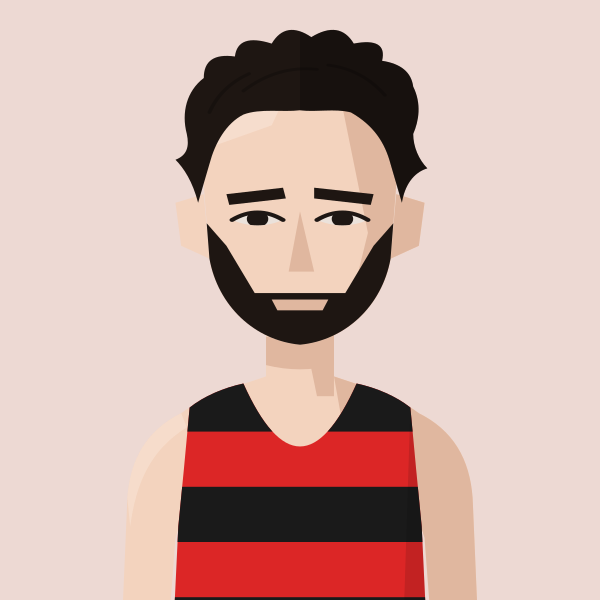
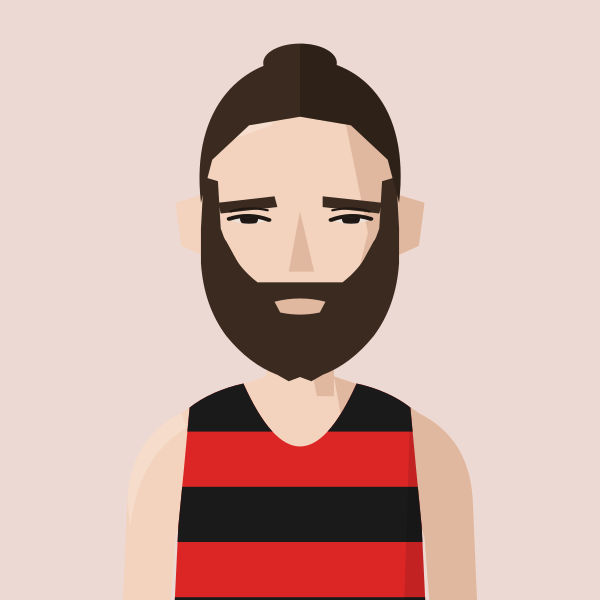
Redraw Angus Butler (man bun, full beard, small wide-set eyes) and add his dog Max to his profile
Claude-Session: https://claude.ai/code/session_01MgmDWhFqnSSnP4iBLKXUZC

Changed region(s): [[0.3, 0.03, 0.72, 0.63]]

diff --git a/files/index.html b/files/index.html
@@ -686,9 +686,9 @@ return m;})();
 const portraitFile=(name,club)=>{const k=normalizeNameForCompare(name||'').replace(/\s*\(([^)]*)\)$/,(m,c)=>CLUBS[c.toUpperCase()]?'':m);const a=PORTRAITS[k];if(a&&a.club===club)return a.file;const b=PORTRAITS[k+'@'+club];return b?b.file:null;};
 // Athlete header figure: superstar portrait if we have one, else a grey runner in the club vest, else the plain vest icon
 // Changes whenever any portrait changes (set by tools/build_og.py), so browsers fetch fresh images instead of old cached ones
-const PORTRAIT_V='62f463a3';const PORTRAIT_WOMEN='abbey-brooke,abbie-bulbulian,adele-prince,aimee-hargreaves,aisling-ahern,alex-brown,alex-gandee,alex-marginean,alex-miller,alexa-parker,alexandra-barbour,alice-braham,alice-bridger-morales,alice-crane,alice-martin,alice-reed,alice-smith,alison-purnell,alison-thomson,amy-clements,andrea-barber,anika-schwarze-chintapatla,anna-garnier,anna-garnier-hw,anna-sharp,annabel-hobday,annabelle-hadlow,anne-hegvold,annmarie-seymour,ava-mcandie,becky-briggs,bethan-goddard,bethanie-murray,bethany-brown,betsy-griffiths,billie-mcclosky,camilla-barden,caoimhe-nic-fhogartaigh,carolyne-baxter,catherine-bryson,catherine-eastham,catherine-kandie,cathy-ansell,charlotte-griffiths,chloe-beckett,chloe-tighe,chrissie-wellington,claire-grima,clara-pettit,clare-elms,clare-pauzers,dillan-quinn,dorchie-cockerell,eilidh-hide,elinor-skinner,eliza-grant,elizabeth-apsley,elizabeth-stavreski,ella-fennelly,ella-king-powrie,ella-may-hards,ella-newton,ellie-brown,ellie-freeden,eloise-bull,emilie-arnoux,emily-barrett,emily-bradley,emily-lowery,emily-robbins,emma-gordon,emma-howsham,emma-lord,emma-rowland,estle-viljoen,evie-warren,felicity-cole,felicity-harrison,felicity-hayward,fi-maddocks,fiona-de-mauny,florence-wiggins,gabby-collison,gabriel-reynolds,gemma-newport,genevieve-blanch,georgia-curry,georgie-bruinvels,georgie-fenn,georgie-furze,georgie-grgec,gina-galbraith,grace-leyland,grace-richardson,hannah-edwards,hannah-english,heather-statham,heather-statham-cc,helena-corbin,helena-keenan,holly-nixon,holly-pan,imogen-mackie,imogen-wolsey,iona-cousland,isabel-bradley,isabel-brinsden,isabelle-pickett,isobel-hodder,jennifer-nandi,jennifer-smith,jess-reed,jess-saunders,jess-winfield,jessica-davies,jessica-lowe,jodie-favell,josephine-rhodes,julia-bleasdale,julia-wedmore,juliet-hodder,jurgita-levertaviciute,justine-lynch,karen-fenner,karen-xiang,karina-box,kate-axford,kate-williams,kathy-sharpe,katie-ellen-french,katie-good,katie-snowden,katy-hedgethorne,kitty-shepherd-cross,kristina-popadich,lara-bromilow,lara-mangan,laura-goodson,laura-miles,lauren-major,lea-adamson,lily-newton,lisa-bailey,lisa-thomas,lisa-thomas-hw,lizzie-goldie-scot,louise-cooper,lucy-jones,lucy-macalister,lucy-peters,lydia-blackmore,lydia-gallyer-barnett,maddie-mastrolonardo,maddy-whitman,maeve-kenny,margaret-coogan,martina-conner,mary-james,mary-setyabule,matilde-lomba,megan-gildea,mhairi-hall,mimi-corden-lloyd,molly-oconnor,molly-smith,monika-gajek,naomi-lenane,natalie-beadle,natalie-seymour,natasha-lodge,niamh-thompson,nicky-hayes,nicola-cartlidge,nicola-douglas,nikki-sturzaker,olivia-papaioannou,olivia-stillman,orna-mcginley,pamela-mchutchon,patricia-walker,patrizia-gnoato,penny-oliver,rachel-brown,rebecca-barrow,rebekah-edgar,ruby-carter,ruby-whyte-wilding,ruby-woolfe,sally-urquhart,sam-whiting,samantha-munday,sarah-astin,sarah-dewhirst,sarah-grover,sarah-hanley,sarah-holt,sarah-murphy,sarah-palmer,sarah-palmer-ran,sarah-riceman,sarah-young,saron-haileselase,serena-carter,sophie-cowper,sophie-harris,sophie-hicks,sophie-tooley,stacey-ward,steph-hewitt,steph-mccall,steph-mccall-cc,steph-mccall-slh,steph-mitchell,suzanne-swaine,suze-spalding,suzie-harvey,suzy-whatmough,teresa-murphy,tilly-heaton,tilly-heaton-bel,vic-cartwright,vicky-clarke,victoria-barthelmess,victoria-buck,vikki-filsell,zoe-macdonald,zuzana-nemeckova';const PORTRAIT_MEN='aaron-wilson,abdulla-elsadig,adam-leane,adrian-major,adrien-royer,alan-black,alan-mead,alex-brecker,alex-bruce-littlewood,alex-gutteridge,alex-harris,alex-howard,alex-janiaud,alex-lee,alex-lennon,alex-mills,alex-milne,alex-morales,alex-robinson,alex-yee,alexander-marks,amittai-ben-israel,andrew-cumine,andrew-green,andrew-penney,andrew-perfect,andrew-simms,andrew-warburton,andrius-jaksevicius,andy-coley-maud,andy-coley-maud-cc,andy-fyfe,andy-north,andy-paton,andy-weir,angus-butler,angus-lamb,anisse-ismaili,arlo-ludewick,arne-dumez,arthur-peel,ashley-goncalves,barnaby-day,barry-collins,barry-sawyer,ben-clarke,ben-harding,ben-hurley,ben-ireland,ben-millar,ben-paviour,ben-pearce,ben-racle,ben-revill,ben-reynolds,ben-scott,ben-toomer,benedict-whitby,benjamin-hilson,bernie-ford,bill-kerr,bill-weller,bill-weller-wal,bob-harrison,bob-holt,bob-lunnon,bob-rayman,bob-smith,bradley-courtney-pinn,brandon-dewar,brian-gorman,brian-wilder,caleb-hathaway,callum-stewart,cameron-dockerill,cameron-reilly,carl-delaney,charles-herrington,charlie-dabbs,charlie-dickinson,charlie-eastaugh,charlie-manning,charlie-pickett,charlie-rogers,charlie-sandison,charlie-walker,charlie-wyllie,che-compton,chris-busaileh,chris-busaileh-hhh,chris-greenwood,chris-keavey,chris-moss,chris-steer,chris-threadgold,chris-warren,christian-lee,christopher-parker,clive-gilby,clive-shippen,colin-high,colin-pearson,conall-mcnally,conall-whelan,craig-ruddy,dame-dibaba,dan-cliffe,dan-pettitt,daniel-shaw,daniel-wolff,dave-beard,dave-beaver,dave-glassborow,dave-holt,dave-taylor,david-anderson,david-bowers,david-grima,david-north,david-ogden,david-symons,david-walsh,david-williams,deron-fagan,dick-piotrowski,dimos-evangelidis,dominic-kiralyfi,don-anderson,don-faircloth,don-maclean,doug-maughan,duncan-rimmer,dylan-evans,dylan-mitchard,ed-brewer,ed-catmur,ed-gibson,ed-mallett,eddie-herridge,eddie-jodrell,eddie-rolls,edward-chuck,eoin-brady,eoin-molloy,ethan-mccolgan,falilou-kebe,findlay-dyer,finn-johnson,fintan-pearce,frank-tickner,frank-ward,fred-paget,fred-slemeck,freddie-hessian,garret-lee,gary-ribbons,gary-ribbons-ee,gary-staines,gavin-eccles,geoff-biscoe,geoff-jerwood,geoff-north,george-cotton,george-gathercole,george-jackson,george-loxton,george-mallett,george-ogden,gerry-adams,gerry-north,glen-keegan,gordon-pearce,graham-macky,harrison-hayman,harry-guttridge,hector-revill,henry-hart,henry-silverstein,hugo-hewitt,ian-acreman,ian-crowe-wright,ian-ellwood,ian-harkness,indy-barnes,isaac-lutaya,isaac-parker,jack-brotchie,jack-dickson,jack-dormer,jack-hampshire,jack-harrison,jack-hobden,jack-kavanagh,jack-millar,jack-ramm,jack-woods,jacob-brockmann,jake-simmonds,james-bartram,james-blackwood,james-bowler,james-estall,james-ewing,james-fox,james-hancock,james-harvey,james-hoad,james-kelly,james-mcmullan,james-murray,james-nutt,james-preston,james-roberts,james-stockings,james-ward,james-wootton,jamie-crowe,jamie-parkinson,jared-martin,jean-paul-wright,jeff-cunningham,jeremy-dempsey,jermaine-mays,jerry-watson,jim-allchin,jim-rimmer,joe-english,joe-hartley,john-baker,john-bicourt,john-bromley,john-davies,john-dear,john-foss,john-foxall,john-gilbert,john-gladwin,john-hutchins,john-kendall,john-kimaiyo,john-lee,john-lethbridge,john-mather,john-moore,john-roberts,john-sanderson,john-stow,john-sullivan,john-thresher,jon-hobbs,jon-pepper,jon-pepper-slh,jon-phillips,jon-solly,jonathan-cocker,jonathan-collier,jonathan-cornish,jonathan-ratcliffe,jonathan-tipper,jonathon-blackledge,jonny-neville,jonny-scott,jordan-weaver,josh-mitchell,josh-snow,josh-trigwell,jules-gevers,junior-galley,justin-chaston,justin-reid,kassa-tadesse,keith-newton,kevin-nash,kevin-quinn,kevin-sturman,kieran-barnes,kieran-white,knut-hegvold,knut-hegvold-bel,larry-ryan,lawrence-avery,lee-lintern,lewis-lloyd,liam-burthem,lionel-mann,lloyd-kempson,luke-caldwell,mack-downie,malachi-byansi,marcello-bizio,marcelo-fortes,marco-mazzotta,mark-anderson,mark-miles,mark-sinclair,mark-tennyson,mark-waller,martin-dent,martin-lake,martin-lewington,martin-shore,mathew-speed,matt-chaston,matt-jones,matt-wood,matthew-edgar,matthew-houchell,matthew-thomas,matthew-varley,max-bloor,max-heyden,max-milarvie,max-nicholls,michael-baker,michael-mccarthy,mick-woods,mike-beevor,mike-boyle,mike-cummings,mike-farmery,mike-fuller,mike-hayes,mike-kortenray,mike-nouch,mohammed-ismail,monty-hudson,morgan-roberts,nathan-visick,neil-chisholm,neil-phillips,neil-speaight,neil-wilson,nic-lukies,nick-acfield,nick-altmann,nick-bester,nick-bester-hhh,nick-buckle,nick-bundle,nick-goolab,nick-lightfoot,nick-morris,nick-torry,noah-fernandez,norman-stairs,oli-carrington,oliver-carrington,oliver-fox,oliver-reynolds,oliver-young,ollie-foote,ollie-garrod,olly-buck,owen-hind,paddy-roddy,pancho-panchev,paskar-owor,pat-newell,patrick-mcdougall,paul-calver,paul-cheetham,paul-freary,paul-magner,paul-pollock,pete-carton,pete-gardner,peter-clarke,peter-giles,peter-giles-thh,peter-lighting,phil-carstairs,phil-sanders,phil-sesemann,phil-swinburn,phil-wicks,phil-woodford-smith,raj-paranandi,ralph-street,ranjit-bhatia,ray-foley,reece-edwards,rhys-boorman,rian-mccawley,richard-ashe,richard-giles,richard-henderson,richard-langley,richard-mcdowell,richard-ollington,richard-partridge,richard-sun,richard-ward,rob-armstrong,rob-kelly,rob-tuer,robert-elphick,robert-laing,robert-norville,robert-peacock,robert-sesemann,robin-boon,robin-hudson,roger-alsop,roger-alsop-bel,ron-clark,ron-linstead,ronan-tanguy,rory-mcmahon,rory-orsborn,ross-christie,rowan-board,rowan-crichton,russell-dessaix-chin,ryan-hickey,ryan-mccallister,sam-bramwell,sam-charlton,sam-gebreselassie,sam-peters,sam-sommerville,sam-tyas,samuel-dames,samuel-wilcock,sean-cordon,sebastian-anthony,simon-baines,simon-coombes,simon-coppard,simon-holmes,simon-rayner,simon-rayner-hw,simon-wade,simon-wade-hhh,simon-waterhouse,simon-williams,simon-wurr,sonny-nicoll,spencer-barden,stephen-mcleod,stephen-sharp,steve-gardner,steve-jones,steve-smythe,steve-smythe-hhh,stuart-beaney,stuart-major,stuart-major-thh,stuart-mccallum,stuart-paton,terry-booth,thomas-dugre,thomas-gandee,thomas-gardner,thomas-renshaw,tim-alexander,tim-eglen,tim-lawrence,tim-watson,toby-cooke,toby-fletcher,tom-austin,tom-cheetham,tom-conlon,tom-davies,tom-gifford,tom-jervis,tom-lole,tom-south,tom-thornley,tommy-taylor,tony-binda,tony-fairclough,tony-harran,trevor-hart,valdis-pauzers,valentin-rigori,vic-maughan,will-cockerell,will-lewis,will-marshall,will-scott,will-stockley,william-gardner,yacin-yusuf,zach-nolan';
+const PORTRAIT_V='c5487154';const PORTRAIT_WOMEN='abbey-brooke,abbie-bulbulian,adele-prince,aimee-hargreaves,aisling-ahern,alex-brown,alex-gandee,alex-marginean,alex-miller,alexa-parker,alexandra-barbour,alice-braham,alice-bridger-morales,alice-crane,alice-martin,alice-reed,alice-smith,alison-purnell,alison-thomson,amy-clements,andrea-barber,anika-schwarze-chintapatla,anna-garnier,anna-garnier-hw,anna-sharp,annabel-hobday,annabelle-hadlow,anne-hegvold,annmarie-seymour,ava-mcandie,becky-briggs,bethan-goddard,bethanie-murray,bethany-brown,betsy-griffiths,billie-mcclosky,camilla-barden,caoimhe-nic-fhogartaigh,carolyne-baxter,catherine-bryson,catherine-eastham,catherine-kandie,cathy-ansell,charlotte-griffiths,chloe-beckett,chloe-tighe,chrissie-wellington,claire-grima,clara-pettit,clare-elms,clare-pauzers,dillan-quinn,dorchie-cockerell,eilidh-hide,elinor-skinner,eliza-grant,elizabeth-apsley,elizabeth-stavreski,ella-fennelly,ella-king-powrie,ella-may-hards,ella-newton,ellie-brown,ellie-freeden,eloise-bull,emilie-arnoux,emily-barrett,emily-bradley,emily-lowery,emily-robbins,emma-gordon,emma-howsham,emma-lord,emma-rowland,estle-viljoen,evie-warren,felicity-cole,felicity-harrison,felicity-hayward,fi-maddocks,fiona-de-mauny,florence-wiggins,gabby-collison,gabriel-reynolds,gemma-newport,genevieve-blanch,georgia-curry,georgie-bruinvels,georgie-fenn,georgie-furze,georgie-grgec,gina-galbraith,grace-leyland,grace-richardson,hannah-edwards,hannah-english,heather-statham,heather-statham-cc,helena-corbin,helena-keenan,holly-nixon,holly-pan,imogen-mackie,imogen-wolsey,iona-cousland,isabel-bradley,isabel-brinsden,isabelle-pickett,isobel-hodder,jennifer-nandi,jennifer-smith,jess-reed,jess-saunders,jess-winfield,jessica-davies,jessica-lowe,jodie-favell,josephine-rhodes,julia-bleasdale,julia-wedmore,juliet-hodder,jurgita-levertaviciute,justine-lynch,karen-fenner,karen-xiang,karina-box,kate-axford,kate-williams,kathy-sharpe,katie-ellen-french,katie-good,katie-snowden,katy-hedgethorne,kitty-shepherd-cross,kristina-popadich,lara-bromilow,lara-mangan,laura-goodson,laura-miles,lauren-major,lea-adamson,lily-newton,lisa-bailey,lisa-thomas,lisa-thomas-hw,lizzie-goldie-scot,louise-cooper,lucy-jones,lucy-macalister,lucy-peters,lydia-blackmore,lydia-gallyer-barnett,maddie-mastrolonardo,maddy-whitman,maeve-kenny,margaret-coogan,martina-conner,mary-james,mary-setyabule,matilde-lomba,megan-gildea,mhairi-hall,mimi-corden-lloyd,molly-oconnor,molly-smith,monika-gajek,naomi-lenane,natalie-beadle,natalie-seymour,natasha-lodge,niamh-thompson,nicky-hayes,nicola-cartlidge,nicola-douglas,nikki-sturzaker,olivia-papaioannou,olivia-stillman,orna-mcginley,pamela-mchutchon,patricia-walker,patrizia-gnoato,penny-oliver,rachel-brown,rebecca-barrow,rebekah-edgar,ruby-carter,ruby-whyte-wilding,ruby-woolfe,sally-urquhart,sam-whiting,samantha-munday,sarah-astin,sarah-dewhirst,sarah-grover,sarah-hanley,sarah-holt,sarah-murphy,sarah-palmer,sarah-palmer-ran,sarah-riceman,sarah-young,saron-haileselase,serena-carter,sophie-cowper,sophie-harris,sophie-hicks,sophie-tooley,stacey-ward,steph-hewitt,steph-mccall,steph-mccall-cc,steph-mccall-slh,steph-mitchell,suzanne-swaine,suze-spalding,suzie-harvey,suzy-whatmough,teresa-murphy,tilly-heaton,tilly-heaton-bel,vic-cartwright,vicky-clarke,victoria-barthelmess,victoria-buck,vikki-filsell,zoe-macdonald,zuzana-nemeckova';const PORTRAIT_MEN='aaron-wilson,abdulla-elsadig,adam-leane,adrian-major,adrien-royer,alan-black,alan-mead,alex-brecker,alex-bruce-littlewood,alex-gutteridge,alex-harris,alex-howard,alex-janiaud,alex-lee,alex-lennon,alex-mills,alex-milne,alex-morales,alex-robinson,alex-yee,alexander-marks,amittai-ben-israel,andrew-cumine,andrew-green,andrew-penney,andrew-perfect,andrew-simms,andrew-warburton,andrius-jaksevicius,andy-coley-maud,andy-coley-maud-cc,andy-fyfe,andy-north,andy-paton,andy-weir,angus-butler,angus-lamb,anisse-ismaili,arlo-ludewick,arne-dumez,arthur-peel,ashley-goncalves,barnaby-day,barry-collins,barry-sawyer,ben-clarke,ben-harding,ben-hurley,ben-ireland,ben-millar,ben-paviour,ben-pearce,ben-racle,ben-revill,ben-reynolds,ben-scott,ben-toomer,benedict-whitby,benjamin-hilson,bernie-ford,bill-kerr,bill-weller,bill-weller-wal,bob-harrison,bob-holt,bob-lunnon,bob-rayman,bob-smith,bradley-courtney-pinn,brandon-dewar,brian-gorman,brian-wilder,caleb-hathaway,callum-stewart,cameron-dockerill,cameron-reilly,carl-delaney,charles-herrington,charlie-dabbs,charlie-dickinson,charlie-eastaugh,charlie-manning,charlie-pickett,charlie-rogers,charlie-sandison,charlie-walker,charlie-wyllie,che-compton,chris-busaileh,chris-busaileh-hhh,chris-greenwood,chris-keavey,chris-moss,chris-steer,chris-threadgold,chris-warren,christian-lee,christopher-parker,clive-gilby,clive-shippen,colin-high,colin-pearson,conall-mcnally,conall-whelan,craig-ruddy,dame-dibaba,dan-cliffe,dan-pettitt,daniel-shaw,daniel-wolff,dave-beard,dave-beaver,dave-glassborow,dave-holt,dave-taylor,david-anderson,david-bowers,david-grima,david-north,david-ogden,david-symons,david-walsh,david-williams,deron-fagan,dick-piotrowski,dimos-evangelidis,dominic-kiralyfi,don-anderson,don-faircloth,don-maclean,doug-maughan,duncan-rimmer,dylan-evans,dylan-mitchard,ed-brewer,ed-catmur,ed-gibson,ed-mallett,eddie-herridge,eddie-jodrell,eddie-rolls,edward-chuck,eoin-brady,eoin-molloy,ethan-mccolgan,falilou-kebe,findlay-dyer,finn-johnson,fintan-pearce,frank-tickner,frank-ward,fred-paget,fred-slemeck,freddie-hessian,garret-lee,gary-ribbons,gary-ribbons-ee,gary-staines,gavin-eccles,geoff-biscoe,geoff-jerwood,geoff-north,george-cotton,george-gathercole,george-jackson,george-loxton,george-mallett,george-ogden,gerry-adams,gerry-north,glen-keegan,gordon-pearce,graham-macky,harrison-hayman,harry-guttridge,hector-revill,henry-hart,henry-silverstein,hugo-hewitt,ian-acreman,ian-crowe-wright,ian-ellwood,ian-harkness,indy-barnes,isaac-lutaya,isaac-parker,jack-brotchie,jack-dickson,jack-dormer,jack-hampshire,jack-harrison,jack-hobden,jack-kavanagh,jack-millar,jack-ramm,jack-woods,jacob-brockmann,jake-simmonds,james-bartram,james-blackwood,james-bowler,james-estall,james-ewing,james-fox,james-hancock,james-harvey,james-hoad,james-kelly,james-mcmullan,james-murray,james-nutt,james-preston,james-roberts,james-stockings,james-ward,james-wootton,jamie-crowe,jamie-parkinson,jared-martin,jean-paul-wright,jeff-cunningham,jeremy-dempsey,jermaine-mays,jerry-watson,jim-allchin,jim-rimmer,joe-english,joe-hartley,john-baker,john-bicourt,john-bromley,john-davies,john-dear,john-foss,john-foxall,john-gilbert,john-gladwin,john-hutchins,john-kendall,john-kimaiyo,john-lee,john-lethbridge,john-mather,john-moore,john-roberts,john-sanderson,john-stow,john-sullivan,john-thresher,jon-hobbs,jon-pepper,jon-pepper-slh,jon-phillips,jon-solly,jonathan-cocker,jonathan-collier,jonathan-cornish,jonathan-ratcliffe,jonathan-tipper,jonathon-blackledge,jonny-neville,jonny-scott,jordan-weaver,josh-mitchell,josh-snow,josh-trigwell,jules-gevers,junior-galley,justin-chaston,justin-reid,kassa-tadesse,keith-newton,kevin-nash,kevin-quinn,kevin-sturman,kieran-barnes,kieran-white,knut-hegvold,knut-hegvold-bel,larry-ryan,lawrence-avery,lee-lintern,lewis-lloyd,liam-burthem,lionel-mann,lloyd-kempson,luke-caldwell,mack-downie,malachi-byansi,marcello-bizio,marcelo-fortes,marco-mazzotta,mark-anderson,mark-miles,mark-sinclair,mark-tennyson,mark-waller,martin-dent,martin-lake,martin-lewington,martin-shore,mathew-speed,matt-chaston,matt-jones,matt-wood,matthew-edgar,matthew-houchell,matthew-thomas,matthew-varley,max-bloor,max-heyden,max-milarvie,max-nicholls,michael-baker,michael-mccarthy,mick-woods,mike-beevor,mike-boyle,mike-cummings,mike-farmery,mike-fuller,mike-hayes,mike-kortenray,mike-nouch,mohammed-ismail,monty-hudson,morgan-roberts,nathan-visick,neil-chisholm,neil-phillips,neil-speaight,neil-wilson,nic-lukies,nick-acfield,nick-altmann,nick-bester,nick-bester-hhh,nick-buckle,nick-bundle,nick-goolab,nick-lightfoot,nick-morris,nick-torry,noah-fernandez,norman-stairs,oli-carrington,oliver-carrington,oliver-fox,oliver-reynolds,oliver-young,ollie-foote,ollie-garrod,olly-buck,owen-hind,paddy-roddy,pancho-panchev,paskar-owor,pat-newell,patrick-mcdougall,paul-calver,paul-cheetham,paul-freary,paul-magner,paul-pollock,pete-carton,pete-gardner,peter-clarke,peter-giles,peter-giles-thh,peter-lighting,phil-carstairs,phil-sanders,phil-sesemann,phil-swinburn,phil-wicks,phil-woodford-smith,raj-paranandi,ralph-street,ranjit-bhatia,ray-foley,reece-edwards,rhys-boorman,rian-mccawley,richard-ashe,richard-giles,richard-henderson,richard-langley,richard-mcdowell,richard-ollington,richard-partridge,richard-sun,richard-ward,rob-armstrong,rob-kelly,rob-tuer,robert-elphick,robert-laing,robert-norville,robert-peacock,robert-sesemann,robin-boon,robin-hudson,roger-alsop,roger-alsop-bel,ron-clark,ron-linstead,ronan-tanguy,rory-mcmahon,rory-orsborn,ross-christie,rowan-board,rowan-crichton,russell-dessaix-chin,ryan-hickey,ryan-mccallister,sam-bramwell,sam-charlton,sam-gebreselassie,sam-peters,sam-sommerville,sam-tyas,samuel-dames,samuel-wilcock,sean-cordon,sebastian-anthony,simon-baines,simon-coombes,simon-coppard,simon-holmes,simon-rayner,simon-rayner-hw,simon-wade,simon-wade-hhh,simon-waterhouse,simon-williams,simon-wurr,sonny-nicoll,spencer-barden,stephen-mcleod,stephen-sharp,steve-gardner,steve-jones,steve-smythe,steve-smythe-hhh,stuart-beaney,stuart-major,stuart-major-thh,stuart-mccallum,stuart-paton,terry-booth,thomas-dugre,thomas-gandee,thomas-gardner,thomas-renshaw,tim-alexander,tim-eglen,tim-lawrence,tim-watson,toby-cooke,toby-fletcher,tom-austin,tom-cheetham,tom-conlon,tom-davies,tom-gifford,tom-jervis,tom-lole,tom-south,tom-thornley,tommy-taylor,tony-binda,tony-fairclough,tony-harran,trevor-hart,valdis-pauzers,valentin-rigori,vic-maughan,will-cockerell,will-lewis,will-marshall,will-scott,will-stockley,william-gardner,yacin-yusuf,zach-nolan';
 // Runners whose dog pops up on their own profile page (a -dog.svg version of their portrait)
-const PROFILE_DOGS=new Set(['john-sanderson','penny-oliver','james-hancock']);
+const PROFILE_DOGS=new Set(['john-sanderson','penny-oliver','james-hancock','angus-butler']);
 const AthletePortrait=({name,club,w,fill,onClick,blink})=>{const[failed,setFailed]=useState(false);const file=portraitFile(name,club);const src0=file?`/portraits/athletes/${file}.svg?v=${PORTRAIT_V}`:PORTRAIT_CLUBS.has(club)?`/portraits/clubs/${club.replace(/\//g,'').replace(/&/g,'and')}.svg?v=${PORTRAIT_V}`:null;const blinkSrc=useBlinkSrc(file?(PROFILE_DOGS.has(file)?`/portraits/athletes/${file}-dog.svg?v=${PORTRAIT_V}`:src0):null,!!blink);const src=blinkSrc||src0;if(!src||failed)return<div onClick={onClick} className={onClick?'cursor-pointer':''}><ClubShield club={club} size={w}/></div>;const h=Math.round(w*148/126),ih=Math.round(w*1.4);if(fill)return<div onClick={onClick} className="cursor-pointer" style={{alignSelf:'stretch',minHeight:h,aspectRatio:'126 / 148',flexShrink:0,position:'relative',borderRadius:4,overflow:'hidden'}}><img src={src} alt={file?`Portrait of ${name.replace(/\s*\([^)]*\)$/,'')}`:`Runner in ${CLUBS[club]?.name||club} vest`} style={{position:'absolute',top:0,left:0,display:'block',width:'100%',height:'auto'}} onError={()=>setFailed(true)}/></div>;return<div style={{width:w,height:h,borderRadius:4,overflow:'hidden',flexShrink:0}}><img src={src} alt={file?`Portrait of ${name.replace(/\s*\([^)]*\)$/,'')}`:`Runner in ${CLUBS[club]?.name||club} vest`} width={w} height={ih} style={{display:'block',width:w,height:ih}} onError={()=>setFailed(true)}/></div>;};
 const getClubVestSvg=(club)=>{
   const p="M3 0 L6 0 Q7 4 10 5 Q13 4 14 0 L17 0 L17 20 L3 20 Z";

diff --git a/tools/gen_portraits.py b/tools/gen_portraits.py
@@ -121,6 +121,9 @@ HAIR["longstraight"] = HAIR["longwavy"]
 HAIR_BACK["longstraight"] = '<path d="M60,90 C56,52 80,34 100,34 C120,34 144,52 140,90 L142,188 L58,188 Z"/>'
 HAIR["slicktail"] = '<path d="M66,104 C62,58 81,37 100,37 C120,37 138,58 134,104 L131,86 Q129,70 117,62 Q108,62 101,67 Q94,62 85,62 Q71,70 69,86 Z"/>'
 HAIR_BACK["slicktail"] = '<path d="M122,64 C138,66 146,78 146,90 Q151,98 145,106 Q150,116 141,124 Q138,130 134,128 Q137,120 133,112 Q136,102 131,94 Q130,80 122,72 Z"/>'
+# man bun: hair swept straight back (topknot hairline) into a bun centred at the back of the head
+HAIR["manbun"] = HAIR["topknot"].split("/>")[0] + "/>"
+HAIR_BACK["manbun"] = '<ellipse cx="100" cy="39" rx="13" ry="9"/>'
 HAIR["shaggyrecede"] = '<path d="M60,128 L57,116 L61,108 L56,98 L60,86 L58,74 L66,60 L72,52 L80,47 L86,38 L92,45 L98,34 L104,43 L112,36 L116,46 L124,49 L134,60 L142,74 L140,86 L144,98 L139,108 L143,116 L140,128 L134,124 L133,100 Q131,76 124,64 Q116,57 110,61 Q104,67 100,67 Q96,67 90,61 Q84,57 76,64 Q69,76 67,100 L66,124 Z"/>'
 HAIR_BACK["shaggyrecede"] = '<path d="M60,90 C58,56 80,40 100,40 C120,40 142,56 140,90 L146,104 L141,114 L147,124 L140,134 L144,144 L130,140 L70,140 L56,144 L60,134 L53,124 L59,114 L54,104 Z"/>'
 HAIR["longloose"] = '<path d="M60,140 C52,66 76,36 100,36 C124,36 148,66 140,140 L134,136 L133,100 Q130,80 118,70 Q108,64 97,60 Q86,70 74,78 Q68,90 67,104 L66,136 Z"/>'
@@ -158,6 +161,7 @@ FACIAL = {
     "moustache": '<path d="M86,141 L100,138 L114,141 L113,146 L100,143.5 L87,146 Z"/>',
     "thicktache": '<path d="M100,137 C108,136 115,138 117,143 L119,151 Q116,151 114,147 C110,145 105,144.5 100,145.5 C95,144.5 90,145 86,147 Q84,151 81,151 L83,143 C85,138 92,136 100,137 Z"/>',
     "beard": '<path d="M66,112 L74,124 L84,146 L116,146 L126,124 L134,112 L134,180 L66,180 Z"/>',
+    "bigbeard": '<path d="M64,106 L74,122 L84,146 L116,146 L126,122 L136,106 L136,180 L64,180 Z"/>',
     "bushybeard": '<path d="M64,106 L74,122 L84,146 L116,146 L126,122 L136,106 L136,180 L64,180 Z"/>',
     "stubble": '<path d="M66,112 L74,124 L84,146 L116,146 L126,124 L134,112 L134,180 L66,180 Z" opacity=".32"/>',
 }
@@ -262,6 +266,9 @@ def figure(kit, mode="custom", skin=1, hair="crop", hair_colour="dark brown", fa
                 hg.append(f'<g clip-path="url(#h{tag})" fill="{fc}">{FACIAL[facial]}</g>')
                 if facial == "beard":
                     hg.append(f'<path d="M90,149 L110,149 L108,154 L92,154 Z" fill="{dk}"/>')
+                if facial == "bigbeard":  # big full beard with moustache: sideburns run up into the hair, hugs a thin face, thickest at the chin
+                    hg.append(f'<path d="M66,92 L71,94 L72,116 Q76,132 85,141 L115,141 Q124,132 128,116 L129,94 L134,92 L135,116 L135,132 Q134,152 126,166 Q118,179 108,184 L104,187 L100,185 L96,187 L92,184 Q82,179 74,166 Q66,152 65,132 L65,116 Z" fill="{fc}"/>'
+                              f'<path d="M91,150 Q100,147 109,150 L107,155 Q100,157 93,155 Z" fill="{dk}"/>')
                 if facial == "bushybeard":  # full, bushy beard that spills past the jawline
                     hg.append(f'<path d="M64,118 L60,140 Q66,168 84,180 Q100,188 116,180 Q134,168 140,140 L136,118 L128,128 L118,146 L82,146 L72,128 Z" fill="{fc}"/>'
                               f'<path d="M88,149 L112,149 L109,155 L91,155 Z" fill="{dk}"/>')
@@ -448,6 +455,34 @@ def spaniel(cx=158, cy=214, s=1.2, fur="#1B1B1D", plane="#2A2A2E", sheen="#3C3C4
     e(1,12.5,2.6,3.2,"#E58A95")
     return '<g class="dog">'+''.join(out)+'</g>'
 def with_spaniel(svg, **kw): return svg.replace('</svg>', spaniel(**kw)+'</svg>', 1)
+
+# Angus Butler's dog Max: scruffy black cockapoo with a navy speckled bandana
+def cockapoo(cx=154, cy=203, s=1.4, fur="#1E1C1B", plane="#2C2927", sheen="#3E3A37", band="#2E3F5C", fleck="#E8DCC4"):
+    """Scruffy black cockapoo peeking up from the bottom edge: shaggy curly ears, fringe over the eyes, speckled bandana (flat geometric, house style)."""
+    P=lambda x,y:(cx+x*s,cy+y*s)
+    out=[]
+    def c(x,y,r,col): X,Y=P(x,y); out.append(f'<circle cx="{X:.1f}" cy="{Y:.1f}" r="{r*s:.1f}" fill="{col}"/>')
+    def e(x,y,rx,ry,col,rot=0): X,Y=P(x,y); out.append(f'<ellipse cx="{X:.1f}" cy="{Y:.1f}" rx="{rx*s:.1f}" ry="{ry*s:.1f}" fill="{col}" transform="rotate({rot} {X:.1f} {Y:.1f})"/>')
+    def poly(pts,col): out.append('<path d="M'+' L'.join(f'{P(x,y)[0]:.1f},{P(x,y)[1]:.1f}' for x,y in pts)+f' Z" fill="{col}"/>')
+    X0,Y0=P(-13,8); out.append(f'<rect x="{X0:.1f}" y="{Y0:.1f}" width="{26*s:.1f}" height="{40*s:.1f}" fill="{fur}"/>')
+    # shaggy curly ears hanging either side
+    for side in (-1,1):
+        for (x,y,r) in [(14,-2,5.5),(16,5,6),(15,12,5.5),(17,18,4.8),(13,21,4.2)]: c(side*x,y,r,fur)
+        c(side*15,6,2.6,plane); c(side*16,15,2.2,plane)
+    # shaggy head
+    for (x,y,r) in [(0,0,12.5),(-8,-7,7),(0,-11,7.5),(8,-7,7),(-11,1,5.5),(11,1,5.5)]: c(x,y,r,fur)
+    poly([(-13,-6),(-10,-15),(-6,-10),(-3,-18),(1,-12),(5,-17),(7,-10),(11,-14),(13,-5)],fur)
+    c(-4,-12,2.6,sheen); c(5,-10,2.2,sheen)
+    # muzzle, with fringe falling over the eyes
+    e(0,7,8.5,6.5,plane)
+    for x in (-5.5,5.5): c(x,0,1.7,"#5A3A22"); c(x,0,0.9,"#0C0A09")
+    poly([(-11,-5),(-7,-1),(-4,-5),(0,-1),(4,-5),(7,-1),(11,-5),(9,-9),(-9,-9)],fur)
+    e(0,4.5,2.9,2.1,"#0A0909")
+    # speckled navy bandana tied at the neck
+    poly([(-15,13),(15,13),(13,18),(0,30),(-13,18)],band)
+    for (x,y,r) in [(-9,16,.9),(-4,19,.7),(2,16,.8),(7,19,.9),(10,15,.6),(-2,24,.8),(4,25,.6),(-6,15,.5),(0,20,.6)]: c(x,y,r,fleck)
+    return '<g class="dog">'+''.join(out)+'</g>'
+def with_cockapoo(svg, **kw): return svg.replace('</svg>', cockapoo(**kw)+'</svg>', 1)
 
 
 
@@ -1347,6 +1382,7 @@ EYE_SHAPES = {  # name: (left eye, right eye, left lid line, right lid line)
     "wide": ("M76,112 Q85,102 94,112 Q85,119.5 76,112 Z", "M106,112 Q115,102 124,112 Q115,119.5 106,112 Z", "M76,112 Q85,102 94,112", "M106,112 Q115,102 124,112"),
     "narrow": ("M76,112 Q85,108 94,112 Q85,114.5 76,112 Z", "M106,112 Q115,108 124,112 Q115,114.5 106,112 Z", "M76,112 Q85,108 94,112", "M106,112 Q115,108 124,112"),
     "hooded": ("M76,112 Q85,108.5 94,112 Q85,117 76,112 Z", "M106,112 Q115,108.5 124,112 Q115,117 106,112 Z", "M75,111 Q85,107.5 95,112 M76,107.5 Q85,103.5 94,107", "M105,112 Q115,107.5 125,111 M106,107 Q115,103.5 124,107.5"),
+    "smallhooded": ("M78.5,112 Q85,109.5 91.5,112 Q85,115.5 78.5,112 Z", "M108.5,112 Q115,109.5 121.5,112 Q115,115.5 108.5,112 Z", "M78,111.5 Q85,108.5 92,112 M78.5,108 Q85,105.5 91.5,107.5", "M108,112 Q115,108.5 122,111.5 M108.5,107.5 Q115,105.5 121.5,108"),
     "downturned": ("M75,115 Q85,105 94,112 Q85,118 75,115 Z", "M106,112 Q115,105 125,115 Q115,118 106,112 Z", "M75,115 Q85,105 94,112", "M106,112 Q115,105 125,115"),
     "upturned": ("M75,109 Q85,104 94,112 Q85,116 75,109 Z", "M106,112 Q115,104 125,109 Q115,116 106,112 Z", "M75,109 Q85,104 94,112", "M106,112 Q115,104 125,109"),
 }
@@ -1379,7 +1415,6 @@ save("alison-thomson", figure("KEN", skin=1, hair="ponytail", hair_colour="dark 
 save("andrea-barber", figure("KEN", skin=1, hair="longstraight", hair_colour="blonde"))
 save("andrew-perfect", figure("HHH", skin=1, hair="quiff", hair_colour="grey", gaunt=True, jaw="narrow", creases=True))
 save("andrew-simms", figure("HHH", skin=1, hair="croprecede", hair_colour="light brown", facial="stubble", facial_colour="#9A8468", creases=True))
-save("angus-butler", figure("HHH", skin=1, hair="messyvolume", hair_colour="#1E1612", facial="beard", facial_colour="#1E1612"))
 save("annabel-hobday", figure("HHH", skin=1, hair="tightbun", hair_colour="light brown"))
 save("annabelle-hadlow", figure("KEN", skin=1, hair="slick", hair_colour="#8A7A68", creases=True, gaunt=True))
 save("ben-millar", figure("HHH", skin=1, hair="buzzrecede", hair_colour="light brown", jaw="square", creases=True))
@@ -1538,16 +1573,16 @@ def export_site(site_dir="/home/claude/surrey-league/files/portraits/athletes", 
             shutil.copy(src, f"{out}/{slug}.svg")
 # ---- Brow tilt (Oct 2026): lift the inner ends for a warm, open look; follow eye spacing ----
 import re as _re_b
-def brows(svg, lift=0, spacing=0):
-    """lift > 0 raises the inner ends of both brows (warm/upturned); spacing matches eyes() (- = closer)."""
+def brows(svg, lift=0, spacing=0, drop=0):
+    """lift > 0 raises the inner ends of both brows (warm/upturned); spacing matches eyes() (- = closer); drop > 0 lowers both brows (eyes set right under them)."""
     m = _re_b.search(r'<g fill="(#[0-9A-Fa-f]{3,6})"><polygon points="([^"]+)"/><polygon points="([^"]+)"/></g>', svg)
     if not m: return svg
     def pts(s): return [tuple(float(v) for v in p.split(",")) for p in s.split()]
     def fmt(ps): return " ".join(f"{x:g},{y:g}" for x, y in ps)
     L, R = pts(m.group(2)), pts(m.group(3))
     lx = max(x for x, _ in L); rx = min(x for x, _ in R)
-    L = [(x - spacing, y - (lift if x >= lx - 2 else 0)) for x, y in L]
-    R = [(x + spacing, y - (lift if x <= rx + 2 else 0)) for x, y in R]
+    L = [(x - spacing, y + drop - (lift if x >= lx - 2 else 0)) for x, y in L]
+    R = [(x + spacing, y + drop - (lift if x <= rx + 2 else 0)) for x, y in R]
     new = f'<g fill="{m.group(1)}"><polygon points="{fmt(L)}"/><polygon points="{fmt(R)}"/></g>'
     return svg[:m.start()] + new + svg[m.end():]
 
@@ -1580,4 +1615,10 @@ SITE_NAMES["james-hancock-dog"] = "james-hancock-dog"
 save("lionel-mann", eyes(figure("BEL", skin=1, hair="shaggyrecede", hair_colour="dark brown", facial="bushybeard", greying="sides"), "downturned"))
 # Steve Gardner, redrawn Oct 2026: neat mid-brown quiff, light stubble, eyes slightly closer, rosy, dark half-zip
 save("steve-gardner", eyes(figure("BEL", skin=1, hair="quiff", hair_colour="#5E4430", facial="stubble", facial_colour="#7A5E48", rosy=True, jacket=("#2E3238", "#23262B", None)), None, -1))
+# Angus Butler, redrawn Oct 2026: hair swept back into a bun at the back, big full beard and moustache hugging a thin face,
+# small wide-set lightly hooded eyes right under the brows; his dog Max (black cockapoo) pops up on his profile page
+ANGUS = lambda: brows(eyes(figure("HHH", skin=1, hair="manbun", hair_colour="#3B2A1F", facial="bigbeard", facial_colour="#3B2A1F", jaw="narrow"), "smallhooded", 3), 0, 3, 4).replace('r="3.8"', 'r="3.2"')
+save("angus-butler", ANGUS())
+save("angus-butler-dog", with_cockapoo(ANGUS(), cy=188))
+SITE_NAMES["angus-butler-dog"] = "angus-butler-dog"
 export_site()
